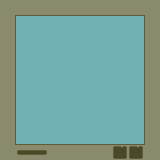
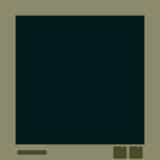
Make computer look a bit more text-adventure-y

diff --git a/src/computer.cpp b/src/computer.cpp
@@ -1,5 +1,9 @@
 #include <computer.hpp>
 
+#include <e/text.hpp>
+#include <e/resources.hpp>
+#include <e/core.hpp>
+
 #include <config.hpp>
 
 void Computer::start() {
@@ -8,9 +12,47 @@ void Computer::start() {
   screenSprite = new Sprite("computer_gui.png");
   screenSprite->hud = true;
 
-  screenSprite->x = SCREEN_WIDTH/2 - screenSprite->width/2;
-  screenSprite->y = SCREEN_HEIGHT/2 - screenSprite->height/2;
+  screenSprite->x = scene->camera->getWidth()/2 - screenSprite->width/2;
+  screenSprite->y = scene->camera->getHeight()/2 - screenSprite->height/2;
   screenSprite->hud = true;
 
   reg(screenSprite);
+
+  buffer = "It's damp, the floor is cold, and it smells of dead animal. Or something like that. Welcome to the innards of Echo Mountain. Around you is a small hole in the ground, a key, a computer, and a hammer.\n\n[If you don't know how to get started, type \"help\"]";
+
+  genBuffer();
+}
+
+void Computer::tick(float dt) {
+  Entity::tick(dt);
+
+  Rect pos = {
+    .x = 32 + 6,
+    .y = 32 + 5,
+    .w = (float) bufferRect.w,
+    .h = (float) bufferRect.h
+  };
+
+  RenderJob j;
+  j.src = bufferRect;
+  j.dst = scene->camera->toView(pos, true);
+  j.tex = bufferTexture;
+  j.depth = getDepth() + DEPTH_ABOVE;
+
+  scene->renderer->queue.push(j);
+}
+
+void Computer::genBuffer() {
+  SDL_DestroyTexture(bufferTexture);
+
+  TTF_Font* font = Resources::get(14);
+
+  SDL_Surface* surface = TTF_RenderText_Blended_Wrapped(font, buffer.c_str(), textColor, 128);
+
+  bufferTexture = SDL_CreateTextureFromSurface(Core::renderer, surface);
+
+  bufferRect.x = bufferRect.y = 0;
+  SDL_QueryTexture(bufferTexture, NULL, NULL, &bufferRect.w, &bufferRect.h);
+
+  SDL_FreeSurface(surface);
 }

diff --git a/src/game.cpp b/src/game.cpp
@@ -37,6 +37,7 @@ bool Game::load() {
   ok |= Resources::load("light_small.png");
   ok |= Resources::load("safari_guy.png");
   ok |= Resources::loadFont("Cave-Story.ttf", 30);
+  ok |= Resources::loadFont("Cave-Story.ttf", 14);
 
   if (!ok) {
     printf("Could not load assets\n");
@@ -114,7 +115,9 @@ void Game::start() {
     }
   }
 
+  // Computer
   computer = new Computer();
+  computer->active = false;
   entities.add(computer);
 
   // load collectables
@@ -200,6 +203,20 @@ void Game::tick(float dt) {
         }
 
         break;
+      case Collectable::SCREEN:
+        if (!isHeld) {
+          break;
+        }
+
+        if (!computer->active) {
+          player->proposePrompt(player->textPower);
+        }
+
+        if (player->use.justDown()) {
+          computer->active = true;
+        }
+
+        break;
     }
   }
 
@@ -252,6 +269,12 @@ void Game::tick(float dt) {
     if (Collision::isOverlapping(boulder->sprite, blockade->sprite->rect())) {
       blockade->explode();
       camera.shake(1 * 100, 1);
+    }
+  }
+
+  if (computer->active) {
+    if (cancel.justDown()) {
+      computer->active = false;
     }
   }
 

diff --git a/src/e/resources.cpp b/src/e/resources.cpp
@@ -8,7 +8,7 @@
 
 std::map<std::string, SDL_Texture*> Resources::textures;
 
-TTF_Font* Resources::font = nullptr;
+std::map<int, TTF_Font*> Resources::fonts;
 
 bool Resources::load(std::string name) {
   if (textures.find(name) != textures.end()) {
@@ -35,12 +35,14 @@ bool Resources::load(std::string name) {
 
 bool Resources::loadFont(std::string name, int fontSize) {
   std::string path = FONT_PATH + name;
-  font = TTF_OpenFont(path.c_str(), fontSize);
+  TTF_Font* font = TTF_OpenFont(path.c_str(), fontSize);
   if (!font) {
     printf("Font could not be loaded: %s\n", TTF_GetError());
 
     return false;
   }
+
+  fonts[fontSize] = font;
 
   return true;
 }
@@ -65,6 +67,16 @@ SDL_Texture* Resources::get(std::string name, int* width, int* height) {
   SDL_QueryTexture(tex, NULL, NULL, width, height);
 
   return tex;
+}
+
+TTF_Font* Resources::get(int fontSize) {
+  if (fonts.find(fontSize) == fonts.end()) {
+    printf("Font has not been loaded!\n");
+
+    return nullptr;
+  }
+
+  return fonts.find(fontSize)->second;
 }
 
 std::string Resources::getPath(std::string name) {

diff --git a/src/e/text.cpp b/src/e/text.cpp
@@ -6,12 +6,12 @@
 #include <e/core.hpp>
 
 Text::Text(std::string text) : text(text) {
-  SDL_Surface* surface = TTF_RenderText_Solid(Resources::font, text.c_str(), White);
+  SDL_Surface* surface = TTF_RenderText_Solid(Resources::get(30), text.c_str(), White);
 
   texture = SDL_CreateTextureFromSurface(Core::renderer, surface);
 
   rect.x = rect.y = 0;
-  TTF_SizeText(Resources::font, text.c_str(), &rect.w, &rect.h);
+  TTF_SizeText(Resources::get(30), text.c_str(), &rect.w, &rect.h);
 
   SDL_FreeSurface(surface);
 }

diff --git a/src/e/resources.hpp b/src/e/resources.hpp
@@ -8,10 +8,12 @@
 
 struct Resources {
   static std::map<std::string, SDL_Texture*> textures;
-  static TTF_Font* font;
+  static std::map<int,TTF_Font*> fonts;
 
   static SDL_Texture* get(std::string fname);
   static SDL_Texture* get(std::string fname, int* width, int* height);
+  static TTF_Font* get(int fontSize);
+
   static bool load(std::string fname);
   static bool loadFont(std::string fname, int fontSize);
 

diff --git a/src/computer.hpp b/src/computer.hpp
@@ -3,11 +3,20 @@
 #include <e/entity.hpp>
 #include <e/sprite.hpp>
 
+#include <SDL2/SDL.h>
+
 struct Computer : Entity {
   void start();
+  void tick(float dt);
 
-  std::string buffer;
+  SDL_Color textColor = { 1, 255, 24, 255 };
+
   std::string input;
 
   Sprite* screenSprite;
+
+  std::string buffer;
+  SDL_Texture* bufferTexture;
+  SDL_Rect bufferRect;
+  void genBuffer();
 };
